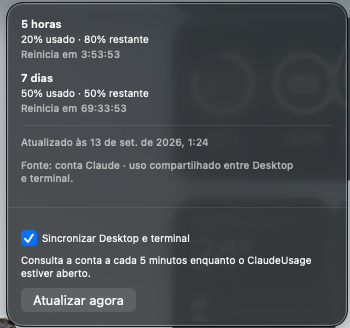
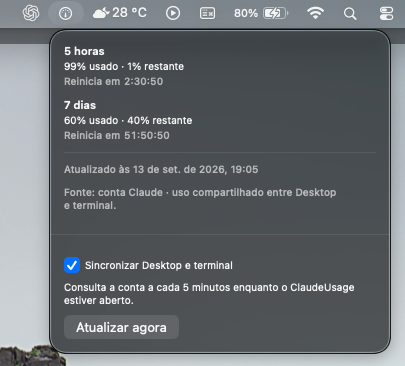
Atualiza capturas do README com o layout atual

diff --git a/README.md b/README.md
@@ -20,7 +20,7 @@ A native macOS app that shows your Claude / Claude Code usage in the menu bar an
 | --- | --- | --- |
 | ![Menu bar dropdown](docs/screenshots/menu-bar.png) | ![Small widget](docs/screenshots/widget-small.png) | ![Medium widget](docs/screenshots/widget-medium.png) |
 
-Additional screenshots (e.g. the per-model widget configuration) can be added later under `docs/screenshots/`.
+Current macOS interface in Brazilian Portuguese, showing account usage in the menu bar and both widget sizes.
 
 ## Requirements
 
